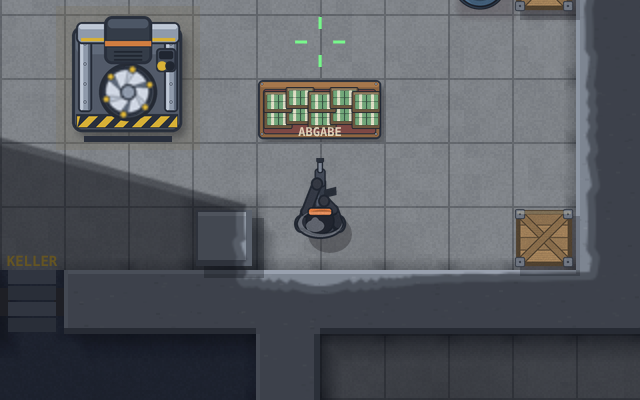
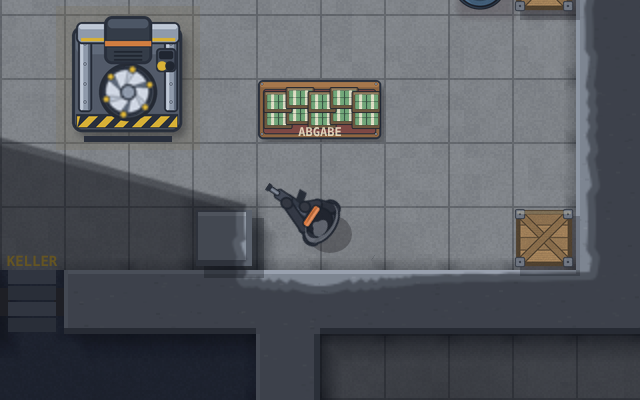
Notenbank N3b: Bilder ohne Fadenkreuz
Claude-Session: https://claude.ai/code/session_01M9qApYsWC5h3mE3xapS5SZ

Changed region(s): [[0.4062, 0.39, 0.5625, 0.63], [0.4688, 0.09, 0.5312, 0.12]]

diff --git a/tools/nb-bilder.js b/tools/nb-bilder.js
@@ -14,11 +14,12 @@ const { launch, openGame } = require('../tests/lib');
   const pick = Object.keys(scenes).filter(k => which === 'alle' || k.startsWith(which) || (which === 'presse' && k === 'abgabe'));
   for (const k of pick) {
     const focus = k.startsWith('presse') ? 'press' : k === 'abgabe' ? 'dep' : 'rig';
+    await page.mouse.move(3, 3);
     const r = await page.evaluate(([code, focus]) => {
       const D = __dbg, T = 32; D.sessReset(); D.setScenario('nb'); D.setSeedMode('random'); D.setLage([]); D.buildSeed(5); D.CFG.policeAt = 1e6; D.CFG.policeForced = 1e6; D.CFG.nb.alarmAt = 1e6; D.reset();
       const g = D.get(), me = g.me; g.npcs.splice(0); D.startHeist(true, me); const L = D.LAY().nb; for (let i = 0; i < 30 * 22; i++) { me.hp = 1e9; D.update(1 / 30); }
       const c = focus === 'rig' ? [(L.rig[0] + 1) * T, (L.rig[1] + 1.5) * T] : focus === 'press' ? [(L.press[0] + 2.5) * T, (L.press[1] + 1) * T] : [21 * T, 3.5 * T];
-      me.x = c[0]; me.y = c[1] + 56; me.x = c[0]; me.y = c[1] + 56; for (let i = 0; i < 45; i++) { me.hp = 1e9; me.x = c[0]; me.y = c[1] + 56; D.update(1 / 30); } eval(code); D.update(.001); D.draw(); D.draw();
+      me.x = c[0]; me.y = c[1] + 56; me.x = c[0]; me.y = c[1] + 56; for (let i = 0; i < 45; i++) { me.hp = 1e9; me.x = c[0]; me.y = c[1] + 56; D.update(1 / 30); } eval(code); const cv0 = document.querySelector('canvas'); for (const tg of [cv0, window, document]) tg.dispatchEvent(new MouseEvent('mousemove', { clientX: 1, clientY: 1, bubbles: true })); D.update(.001); D.draw(); D.draw();
       const cv = document.querySelector('canvas'), o = document.createElement('canvas'); o.width = 640; o.height = 400; const x = o.getContext('2d'); const sx = cv.width / 2 - 320, sy = cv.height / 2 - 200 - 22;
       x.drawImage(cv, sx, sy, 640, 400, 0, 0, 640, 400); return o.toDataURL('image/png');
     }, [scenes[k], focus]);
